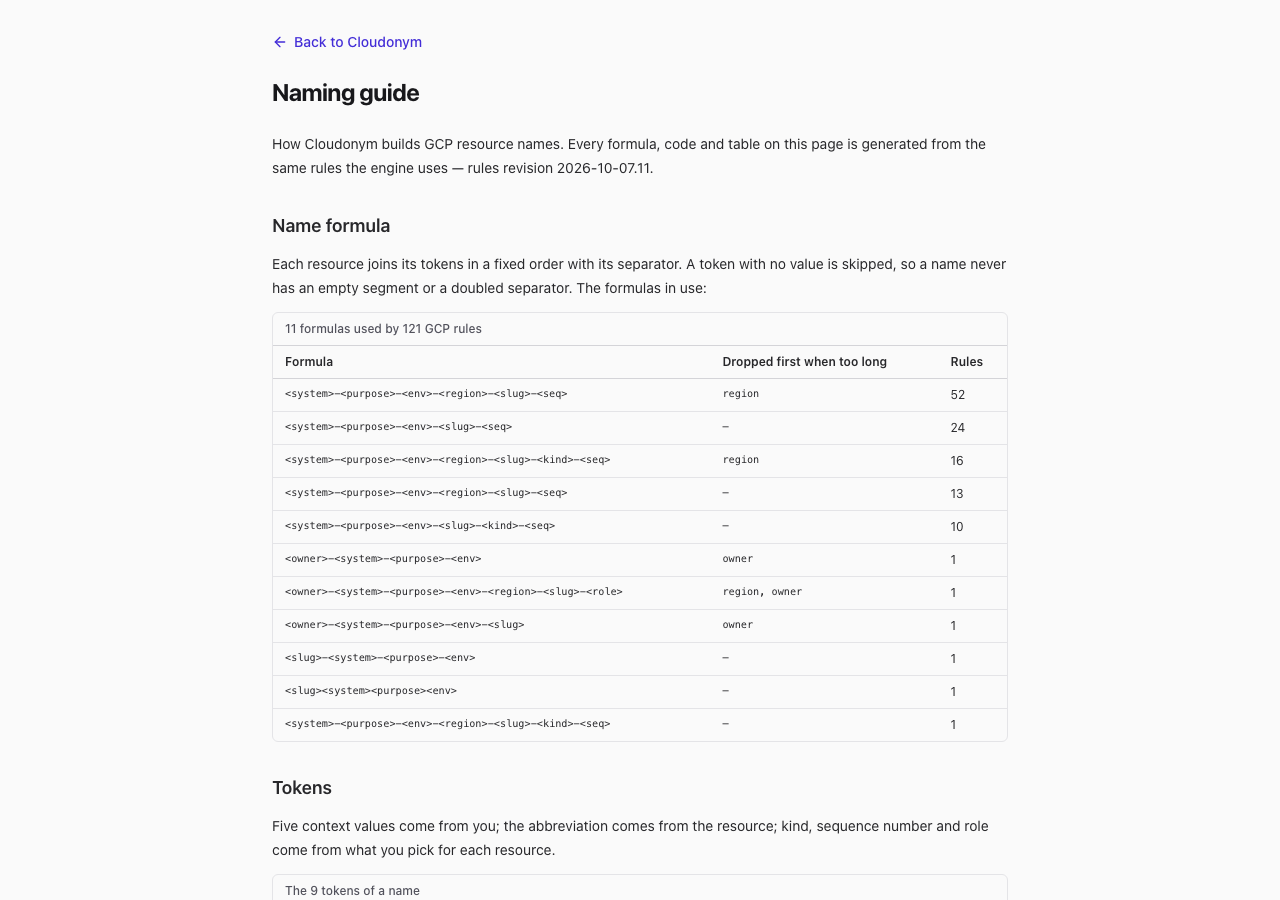
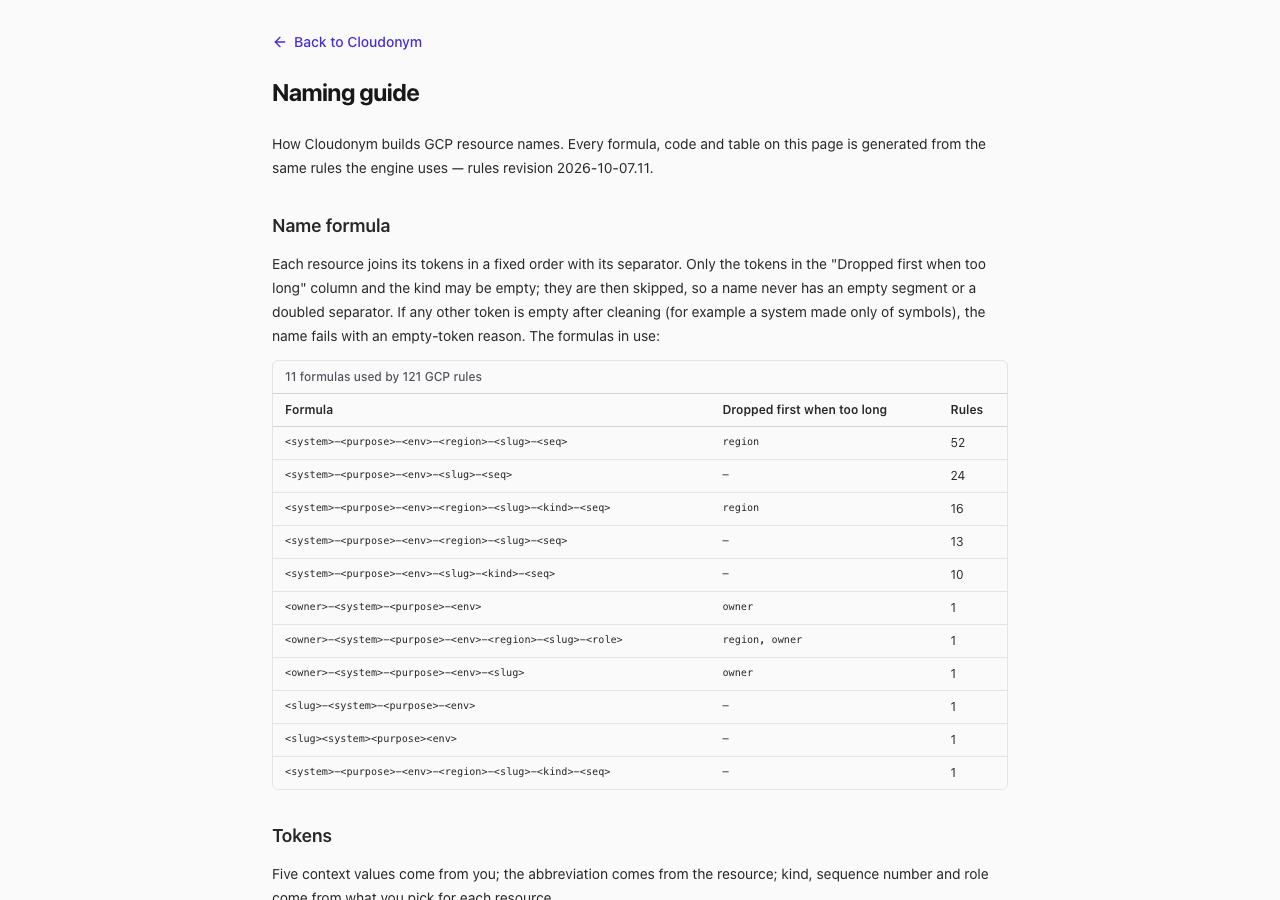
fix(docs): naming guide sentences match what the engine does
Optional tokens are dropped in each resource's own order, not the order
of the name; only optional tokens and the kind may be empty, any other
empty token fails; with global, zonal resources fail for want of a zone;
protected tokens are never shortened but step 1 may still drop the
optional ones; the sequence width comes from the count limit. Each
sentence is now tested against the engine.

Claude-Session: https://claude.ai/code/session_01NB1jw2Yw5J4rzwGebTTUGd

diff --git a/src/components/namingDoc.test.ts b/src/components/namingDoc.test.ts
@@ -5,7 +5,8 @@ import { renderToStaticMarkup } from 'react-dom/server';
 import { catalogFor } from '../core/catalog';
 import { REGIONS } from '../core/regions-data';
 import { buildTree } from '../core/tree';
-import { ENV_VALUES } from '../core/engine';
+import { ENV_VALUES, generateMany, parseContext } from '../core/engine';
+import { PROTECTED, type ResourceRule } from '../core/types';
 import { en } from '../messages/en';
 import { VERSION } from '../version';
 import { treeRules } from './selection';
@@ -123,6 +124,67 @@ describe('namingDocModel', () => {
     const all = strings(model);
     expect(all.length).toBeGreaterThan(500);
     expect(all.filter((s) => HANGUL.test(s))).toEqual([]);
+  });
+});
+
+describe('페이지 문장이 엔진이 하는 일과 같다', () => {
+  const model = namingDocModel(real);
+  const ctxOf = (raw: Record<string, string>) => {
+    const p = parseContext({ owner: 'platform', system: 'billing', purpose: 'trade', env: 'prod', region: 'asia-northeast3-a', ...raw }, 'gcp');
+    if (!p.ok) throw new Error('context');
+    return p.context;
+  };
+  const one = (rule: ResourceRule, raw: Record<string, string> = {}, count = 1) =>
+    generateMany(ctxOf(raw), 'gcp', [{ rule, count, ...(rule.kinds?.rule === 'required' ? { kind: rule.kinds.allowed[0]! } : {}) }]).items;
+  const sa = real.rules.find((r) => r.id === 'gcp.service_account')!;
+
+  it('축소 1단계 — 규칙의 optional 순서로 뗀다(service_account 는 공식에서 뒤인 region 을 먼저) · 문장은 공식 순서라 하지 않는다', () => {
+    expect(sa.template.indexOf('owner')).toBeLessThan(sa.template.indexOf('region'));
+    expect(sa.optional[0]).toBe('region');
+    const long = 'x'.repeat(20);
+    const dropped = one(sa, { owner: long, system: long })[0]!.steps.filter((m) => m.code === 'step.token_dropped').map((m) => m.field);
+    expect(dropped[0]).toBe('region');
+    const step1 = section(model, 'shrink').items![0]!;
+    expect(step1).toContain(en.ui.doc_col_optional);
+    expect(step1).not.toMatch(/order the formula lists/);
+    // 공식 표의 생략 칸은 규칙의 optional 순서 그대로다
+    const row = rowsOf(model, 'formula').find((r) => r.cells[0] === `<${sa.template.join('>-<')}>`)!;
+    expect(row.cells[1]).toBe(sa.optional.join(', '));
+  });
+
+  it('빈 토큰 — 필수 토큰이 비면 FAIL(name.token_empty) · 생략 토큰 · 종류만 건너뛴다고 말한다', () => {
+    const items = one(sa, { system: '!!!' });
+    expect(items[0]!.valid).toBe(false);
+    expect(items[0]!.violations.map((v) => v.code)).toContain('name.token_empty');
+    const body = section(model, 'formula').paragraphs[0]!;
+    expect(body).toContain('fails');
+    expect(body).not.toMatch(/A token with no value is skipped/);
+  });
+
+  it('global — 지역 토큰 없이 PASS, 존 리소스만 name.zone_required · 문장도 그렇게 말한다', () => {
+    const codes = new Set<string>();
+    for (const r of real.rules) {
+      const it0 = one(r, { region: 'global' })[0]!;
+      if (r.regionToken === 'zone') expect(it0.violations.map((v) => v.code), r.id).toEqual(['name.zone_required']);
+      else { expect(it0.valid, r.id).toBe(true); codes.add('pass'); }
+    }
+    expect(codes.has('pass')).toBe(true);
+    expect(section(model, 'regions').paragraphs[0]).toMatch(/zonal resources need a zone, so with global their names fail/);
+  });
+
+  it('축소 2단계 — 보호 토큰은 줄이지 않되 1단계가 그 가운데 optional 은 뗄 수 있다고 말한다', () => {
+    expect(real.rules.some((r) => r.optional.some((t) => PROTECTED.includes(t)))).toBe(true);
+    const step2 = section(model, 'shrink').items![1]!;
+    expect(step2).toContain('never shortened (step 1 may still drop the optional ones among them)');
+    expect(step2).not.toMatch(/never cut/);
+  });
+
+  it('순번 — 문장의 자릿수 · 처음 값이 엔진이 만든 seq 와 같다', () => {
+    const vm = real.rules.find((r) => r.id === 'gcp.compute_instance')!;
+    const seqs = one(vm, {}, 2).map((i) => i.seq);
+    const meaning = rowsOf(model, 'tokens').find((r) => r.key === 'seq')!.cells[1]!;
+    expect(meaning).toContain(`zero-padded to ${seqs[0]!.length} digits`);
+    expect(meaning).toContain(`from ${seqs[0]} to`);
   });
 });
 

diff --git a/src/messages/en.ts b/src/messages/en.ts
@@ -184,7 +184,7 @@ export const en: Catalog = {
     doc_title: 'Naming guide',
     doc_intro: 'How Cloudonym builds {provider} resource names. Every formula, code and table on this page is generated from the same rules the engine uses — rules revision {rules}.',
     doc_formula_title: 'Name formula',
-    doc_formula_body: 'Each resource joins its tokens in a fixed order with its separator. A token with no value is skipped, so a name never has an empty segment or a doubled separator. The formulas in use:',
+    doc_formula_body: 'Each resource joins its tokens in a fixed order with its separator. Only the tokens in the "{optional}" column and the kind may be empty; they are then skipped, so a name never has an empty segment or a doubled separator. If any other token is empty after cleaning (for example a system made only of symbols), the name fails with an empty-token reason. The formulas in use:',
     doc_formula_caption: '{n} formulas used by {count} {provider} rules',
     doc_col_formula: 'Formula',
     doc_col_optional: 'Dropped first when too long',
@@ -201,10 +201,10 @@ export const en: Catalog = {
     doc_token_region: 'The region code or zone code — see Region codes and Zones. Empty when the region is global or the resource is global.',
     doc_token_slug: 'The abbreviation of the resource type — see Abbreviations.',
     doc_token_kind: 'The kind token, for resources that have kinds — see Kind tokens. Empty when the kind is the provider default or not chosen.',
-    doc_token_seq: 'A two-digit sequence number, one per copy, up to {maxCount}.',
+    doc_token_seq: 'A sequence number zero-padded to {width} digits, one per copy, from {first} to {maxCount}.',
     doc_token_role: 'A word you choose for resources named by role instead of number ({hint}). Default: {role}.',
     doc_regions_title: 'Region codes',
-    doc_regions_body: 'Names carry a short code, not the region name. The region field takes a region name, a zone name, a region code, a zone code or global; global puts no region token in any name.',
+    doc_regions_body: 'Names carry a short code, not the region name. The region field takes a region name, a zone name, a region code, a zone code or global. global puts no region token in any name; zonal resources need a zone, so with global their names fail with a zone-required reason.',
     doc_regions_caption: '{n} {provider} regions and their codes',
     doc_col_region: 'Region',
     doc_col_code: 'Code',
@@ -223,8 +223,8 @@ export const en: Catalog = {
     doc_env_sbx: 'Sandbox',
     doc_shrink_title: 'Shrinking in three steps',
     doc_shrink_body: 'When the joined name is longer than the resource allows, Cloudonym shrinks it and stops as soon as it fits:',
-    doc_shrink_step1: 'Drop optional tokens, in the order the formula lists them ({tokens}).',
-    doc_shrink_step2: 'Shorten common words with a small dictionary, then cut the free-text tokens to an equal budget: (maximum length − fixed tokens − separators) ÷ number of free-text tokens. {protected} are never cut, and no shortened token goes below {min} characters.',
+    doc_shrink_step1: 'Drop the optional tokens, in the order each resource lists them (see the "{optional}" column of the formula table) — not the order they appear in the name.',
+    doc_shrink_step2: 'Shorten common words with a small dictionary, then cut the free-text tokens to an equal budget: (maximum length − fixed tokens − separators) ÷ number of free-text tokens. {protected} are never shortened (step 1 may still drop the optional ones among them), and no shortened token goes below {min} characters.',
     doc_shrink_step3: 'If it still does not fit, the name is not cut further: it is returned as not valid, with the reason. Cloudonym never marks a name valid by truncating it.',
     doc_abbr_title: 'Abbreviations',
     doc_abbr_body: 'Each resource type has one abbreviation. The Basis column says why it was chosen, citing the principles below by number, with usage counts and official sources; Earlier lists the abbreviation it replaced, if any.',

diff --git a/src/components/namingDocModel.ts b/src/components/namingDocModel.ts
@@ -94,20 +94,20 @@ export function namingDocModel({ provider, catalog, regions, rules, messages, ve
     .map(([key, f]) => ({ key, cells: [f.formula, f.optional, String(f.count)] }));
 
   const tokens = Object.keys(TOKEN_MEANING) as Token[];
-  const tokenVars = { max: MAX_CONTEXT_CHARS, maxCount: MAX_COUNT, role: DEFAULT_ROLE, hint: ui.role_hint };
+  // 순번 자릿수 — 상한의 자릿수(엔진은 이 폭으로 0 을 채운다 · 시험이 generateMany 에 대어 본다)
+  const seqWidth = String(MAX_COUNT).length;
+  const tokenVars = { max: MAX_CONTEXT_CHARS, maxCount: MAX_COUNT, width: seqWidth, first: '1'.padStart(seqWidth, '0'), role: DEFAULT_ROLE, hint: ui.role_hint };
 
   const zoneCount = regions.reduce((n, r) => n + r.zones.length, 0);
   const sample = regions.find((r) => r.zones.length > 0);
   const example = sample ? `${sample.zones[0]!.zone} → ${sample.zones[0]!.code}` : none;
   const zonalRows = catalog.filter((row) => Object.values(row.rules).some((s) => s.regionToken === 'zone'));
 
-  // 축소 1단계의 생략 토큰 — 규칙에 적힌 것을 처음 나온 순서대로
-  const optionalTokens = [...new Set(rules.flatMap((r) => r.optional))];
   const kindRows = catalog.filter((row) => row.kind !== null);
 
   const sections: DocSection[] = [
     {
-      id: 'formula', title: ui.doc_formula_title, paragraphs: [ui.doc_formula_body],
+      id: 'formula', title: ui.doc_formula_title, paragraphs: [fill('doc_formula_body', { optional: ui.doc_col_optional })],
       table: {
         caption: fill('doc_formula_caption', { n: formulaRows.length, count: rules.length, provider: name }),
         columns: [ui.doc_col_formula, ui.doc_col_optional, ui.doc_col_rule_count], mono: [true, true, false], rows: formulaRows,
@@ -142,7 +142,7 @@ export function namingDocModel({ provider, catalog, regions, rules, messages, ve
     {
       id: 'shrink', title: ui.doc_shrink_title, paragraphs: [ui.doc_shrink_body], ordered: true,
       items: [
-        fill('doc_shrink_step1', { tokens: optionalTokens.length > 0 ? optionalTokens.join(', ') : none }),
+        fill('doc_shrink_step1', { optional: ui.doc_col_optional }),
         fill('doc_shrink_step2', { protected: PROTECTED.join(', '), min: MIN_TOKEN }),
         ui.doc_shrink_step3,
       ],
